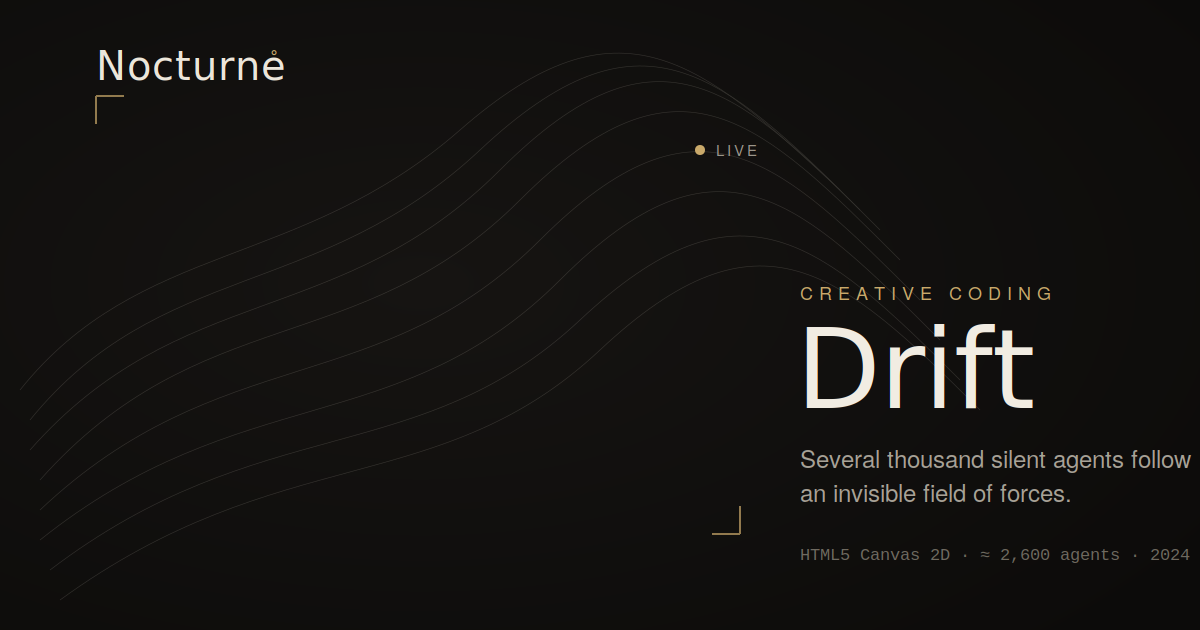
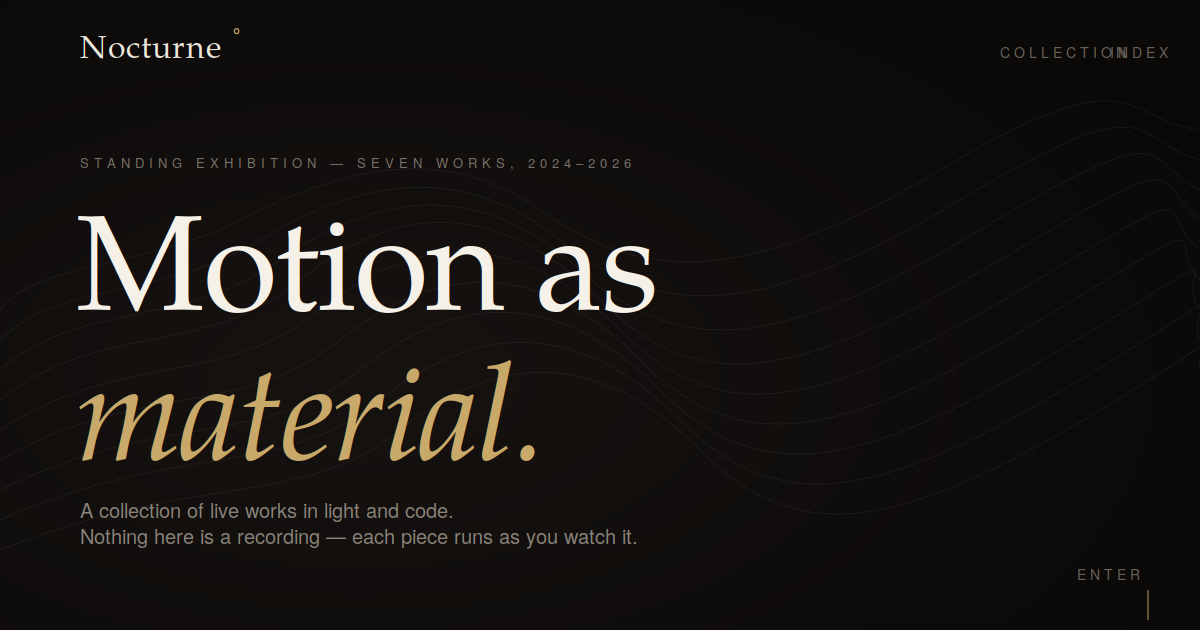
Add files via upload

diff --git a/Portfolio_dc.html b/Portfolio_dc.html
@@ -161,6 +161,7 @@ a{color:inherit;text-decoration:none}
   <a href="#observer-showcase" class="mlink" data-close="">OBSERVER</a>
   <a href="#skills" class="mlink" data-close="">SKILLS</a>
   <a href="#services" class="mlink" data-close="">SERVICES</a>
+  <a href="#all-projects" class="mlink" data-close="">ALL PROJECTS</a>
   <a href="#blog" class="mlink" data-close="">BLOG</a>
   <a href="#contact" class="mlink" data-close="">CONTACT</a>
   <span class="lbl" style="margin-top:44px;opacity:.35;">BERLIN, GERMANY</span>
@@ -472,6 +473,43 @@ a{color:inherit;text-decoration:none}
       <a href="https://ematkovichh.github.io/y2k-art-website/" target="_blank" rel="noopener" style="margin-top:24px;color:rgba(255,255,255,.7);text-decoration:none;cursor:pointer;transition:color .3s;" onmouseover="this.style.color='rgba(255,255,255,1)'" onmouseout="this.style.color='rgba(255,255,255,.7)'">VISIT WEBSITE →</a>
     </div>
   </div>
+</section>
+
+<!-- ALL PROJECTS -->
+<section id="all-projects" class="sp" style="position:relative;background:#081529;overflow:hidden;padding-bottom:120px;">
+  <span class="lbl rv" style="position:absolute;top:104px;left:60px;">CREATIVE DESIGN PORTFOLIO</span>
+  <span class="lbl rv" style="position:absolute;top:104px;right:60px;">BY EUGEN MATKOVIĆ</span>
+  <div class="rv" style="margin-bottom:56px;">
+    <span class="mega" style="font-size:clamp(52px,10vw,155px);">BROWSE</span>
+    <span class="mega" style="font-size:clamp(52px,10vw,155px);">ALL PROJECTS</span>
+  </div>
+  <div style="columns:3;column-gap:20px;" class="rv rd1" id="projectsGrid">
+    <div class="proj-card" style="break-inside:avoid;margin-bottom:20px;position:relative;overflow:hidden;cursor:pointer;" onmouseenter="this.querySelector('.proj-overlay').style.opacity='1'" onmouseleave="this.querySelector('.proj-overlay').style.opacity='0'">
+      <img src="uploads/nocturne-thumb.png" alt="Nocturne" style="width:100%;display:block;aspect-ratio:16/10;object-fit:cover;filter:brightness(0.85);transition:transform .5s ease;" onmouseenter="this.style.transform='scale(1.04)'" onmouseleave="this.style.transform='scale(1.0)'">
+      <div class="proj-overlay" style="position:absolute;inset:0;background:linear-gradient(to top,rgba(0,0,0,.85) 0%,transparent 55%);opacity:0;transition:opacity .35s ease;pointer-events:none;"><div style="position:absolute;bottom:0;left:0;right:0;padding:28px 24px;"><span style="font-family:'Barlow',sans-serif;font-size:10px;letter-spacing:3px;text-transform:uppercase;color:rgba(255,255,255,.45);">DARK ATMOSPHERIC</span><div style="font-family:'Bebas Neue',sans-serif;font-size:28px;color:#fff;letter-spacing:2px;margin:6px 0 10px;">NOCTURNE</div><p style="font-family:'Barlow',sans-serif;font-size:13px;color:rgba(255,255,255,.65);line-height:1.6;margin-bottom:14px;">Live generative works — flow fields, physics simulations, and interactive experiments in light and code.</p><a href="https://ematkovichh.github.io/Nocturne-website/" target="_blank" rel="noopener" style="font-family:'Bebas Neue',sans-serif;font-size:12px;letter-spacing:2px;color:#fff;border-bottom:1px solid rgba(255,255,255,.3);padding-bottom:2px;">VISIT PROJECT →</a></div></div>
+    </div>
+    <div class="proj-card" style="break-inside:avoid;margin-bottom:20px;position:relative;overflow:hidden;cursor:pointer;" onmouseenter="this.querySelector('.proj-overlay').style.opacity='1'" onmouseleave="this.querySelector('.proj-overlay').style.opacity='0'">
+      <img src="uploads/statistically-thumb.png" alt="Statistically" style="width:100%;display:block;aspect-ratio:16/10;object-fit:cover;filter:brightness(0.85);transition:transform .5s ease;" onmouseenter="this.style.transform='scale(1.04)'" onmouseleave="this.style.transform='scale(1.0)'">
+      <div class="proj-overlay" style="position:absolute;inset:0;background:linear-gradient(to top,rgba(0,0,0,.85) 0%,transparent 55%);opacity:0;transition:opacity .35s ease;pointer-events:none;"><div style="position:absolute;bottom:0;left:0;right:0;padding:28px 24px;"><span style="font-family:'Barlow',sans-serif;font-size:10px;letter-spacing:3px;text-transform:uppercase;color:rgba(255,255,255,.45);">DATA PRESENTATION</span><div style="font-family:'Bebas Neue',sans-serif;font-size:28px;color:#fff;letter-spacing:2px;margin:6px 0 10px;">STATISTICALLY</div><p style="font-family:'Barlow',sans-serif;font-size:13px;color:rgba(255,255,255,.65);line-height:1.6;margin-bottom:14px;">Real-time crypto market intelligence — price charts, order flow, and trade signals via Binance WebSocket.</p><a href="https://ematkovichh.github.io/Statistically-website/" target="_blank" rel="noopener" style="font-family:'Bebas Neue',sans-serif;font-size:12px;letter-spacing:2px;color:#fff;border-bottom:1px solid rgba(255,255,255,.3);padding-bottom:2px;">VISIT PROJECT →</a></div></div>
+    </div>
+    <div class="proj-card" style="break-inside:avoid;margin-bottom:20px;position:relative;overflow:hidden;cursor:pointer;" onmouseenter="this.querySelector('.proj-overlay').style.opacity='1'" onmouseleave="this.querySelector('.proj-overlay').style.opacity='0'">
+      <img src="uploads/y2k-thumb.png" alt="Y2K Art Archive" style="width:100%;display:block;aspect-ratio:16/10;object-fit:cover;filter:brightness(0.85);transition:transform .5s ease;" onmouseenter="this.style.transform='scale(1.04)'" onmouseleave="this.style.transform='scale(1.0)'">
+      <div class="proj-overlay" style="position:absolute;inset:0;background:linear-gradient(to top,rgba(0,0,0,.85) 0%,transparent 55%);opacity:0;transition:opacity .35s ease;pointer-events:none;"><div style="position:absolute;bottom:0;left:0;right:0;padding:28px 24px;"><span style="font-family:'Barlow',sans-serif;font-size:10px;letter-spacing:3px;text-transform:uppercase;color:rgba(255,255,255,.45);">EXPERIMENTAL VISUAL</span><div style="font-family:'Bebas Neue',sans-serif;font-size:28px;color:#fff;letter-spacing:2px;margin:6px 0 10px;">Y2K ART ARCHIVE</div><p style="font-family:'Barlow',sans-serif;font-size:13px;color:rgba(255,255,255,.65);line-height:1.6;margin-bottom:14px;">A dreamcore digital space built as a nostalgic OS desktop. Five rooms of iridescent light and neon memory.</p><a href="https://ematkovichh.github.io/y2k-art-website/" target="_blank" rel="noopener" style="font-family:'Bebas Neue',sans-serif;font-size:12px;letter-spacing:2px;color:#fff;border-bottom:1px solid rgba(255,255,255,.3);padding-bottom:2px;">VISIT PROJECT →</a></div></div>
+    </div>
+    <div class="proj-card" style="break-inside:avoid;margin-bottom:20px;position:relative;overflow:hidden;cursor:pointer;" onmouseenter="this.querySelector('.proj-overlay').style.opacity='1'" onmouseleave="this.querySelector('.proj-overlay').style.opacity='0'">
+      <img src="uploads/observers-thumb.png" alt="Observers" style="width:100%;display:block;aspect-ratio:16/10;object-fit:cover;filter:brightness(0.85);transition:transform .5s ease;" onmouseenter="this.style.transform='scale(1.04)'" onmouseleave="this.style.transform='scale(1.0)'">
+      <div class="proj-overlay" style="position:absolute;inset:0;background:linear-gradient(to top,rgba(0,0,0,.85) 0%,transparent 55%);opacity:0;transition:opacity .35s ease;pointer-events:none;"><div style="position:absolute;bottom:0;left:0;right:0;padding:28px 24px;"><span style="font-family:'Barlow',sans-serif;font-size:10px;letter-spacing:3px;text-transform:uppercase;color:rgba(255,255,255,.45);">MINIMALIST EDITORIAL</span><div style="font-family:'Bebas Neue',sans-serif;font-size:28px;color:#fff;letter-spacing:2px;margin:6px 0 10px;">OBSERVERS</div><p style="font-family:'Barlow',sans-serif;font-size:13px;color:rgba(255,255,255,.65);line-height:1.6;margin-bottom:14px;">Modern editorial-style publication. Clean white layout with subtle animations and dynamic scrolling effects.</p><a href="https://ematkovichh.github.io/Observers-Website/" target="_blank" rel="noopener" style="font-family:'Bebas Neue',sans-serif;font-size:12px;letter-spacing:2px;color:#fff;border-bottom:1px solid rgba(255,255,255,.3);padding-bottom:2px;">VISIT PROJECT →</a></div></div>
+    </div>
+    <div class="proj-card" style="break-inside:avoid;margin-bottom:20px;position:relative;overflow:hidden;cursor:pointer;" onmouseenter="this.querySelector('.proj-overlay').style.opacity='1'" onmouseleave="this.querySelector('.proj-overlay').style.opacity='0'">
+      <img src="uploads/draftly-thumb.png" alt="Draftly" style="width:100%;display:block;aspect-ratio:16/10;object-fit:cover;filter:brightness(0.85);transition:transform .5s ease;" onmouseenter="this.style.transform='scale(1.04)'" onmouseleave="this.style.transform='scale(1.0)'">
+      <div class="proj-overlay" style="position:absolute;inset:0;background:linear-gradient(to top,rgba(0,0,0,.85) 0%,transparent 55%);opacity:0;transition:opacity .35s ease;pointer-events:none;"><div style="position:absolute;bottom:0;left:0;right:0;padding:28px 24px;"><span style="font-family:'Barlow',sans-serif;font-size:10px;letter-spacing:3px;text-transform:uppercase;color:rgba(255,255,255,.45);">REACT · TYPESCRIPT</span><div style="font-family:'Bebas Neue',sans-serif;font-size:28px;color:#fff;letter-spacing:2px;margin:6px 0 10px;">DRAFTLY</div><p style="font-family:'Barlow',sans-serif;font-size:13px;color:rgba(255,255,255,.65);line-height:1.6;margin-bottom:14px;">League of Legends draft simulator with full 20-step ban/pick sequence and real Riot Data Dragon integration.</p><a href="https://ematkovichh.github.io/Draftly/" target="_blank" rel="noopener" style="font-family:'Bebas Neue',sans-serif;font-size:12px;letter-spacing:2px;color:#fff;border-bottom:1px solid rgba(255,255,255,.3);padding-bottom:2px;">VISIT PROJECT →</a></div></div>
+    </div>
+    <div class="proj-card" style="break-inside:avoid;margin-bottom:20px;position:relative;overflow:hidden;cursor:pointer;" onmouseenter="this.querySelector('.proj-overlay').style.opacity='1'" onmouseleave="this.querySelector('.proj-overlay').style.opacity='0'">
+      <img src="uploads/portfolio-thumb.png" alt="Portfolio Website" style="width:100%;display:block;aspect-ratio:16/10;object-fit:cover;filter:brightness(0.85);transition:transform .5s ease;" onmouseenter="this.style.transform='scale(1.04)'" onmouseleave="this.style.transform='scale(1.0)'">
+      <div class="proj-overlay" style="position:absolute;inset:0;background:linear-gradient(to top,rgba(0,0,0,.85) 0%,transparent 55%);opacity:0;transition:opacity .35s ease;pointer-events:none;"><div style="position:absolute;bottom:0;left:0;right:0;padding:28px 24px;"><span style="font-family:'Barlow',sans-serif;font-size:10px;letter-spacing:3px;text-transform:uppercase;color:rgba(255,255,255,.45);">DESIGN ENGINEER</span><div style="font-family:'Bebas Neue',sans-serif;font-size:28px;color:#fff;letter-spacing:2px;margin:6px 0 10px;">PORTFOLIO WEBSITE</div><p style="font-family:'Barlow',sans-serif;font-size:13px;color:rgba(255,255,255,.65);line-height:1.6;margin-bottom:14px;">Personal portfolio built at the intersection of visual craft and engineering rigour. Canvas animations, Three.js, WebGL.</p><a href="https://ematkovichh.github.io/Portfolio-website/" target="_blank" rel="noopener" style="font-family:'Bebas Neue',sans-serif;font-size:12px;letter-spacing:2px;color:#fff;border-bottom:1px solid rgba(255,255,255,.3);padding-bottom:2px;">VISIT PROJECT →</a></div></div>
+    </div>
+  </div>
+  <style>@media(max-width:900px){#projectsGrid{columns:2}}@media(max-width:560px){#projectsGrid{columns:1}}</style>
 </section>
 
 <!-- ═══════════════ CONTACT ═══════════════ -->